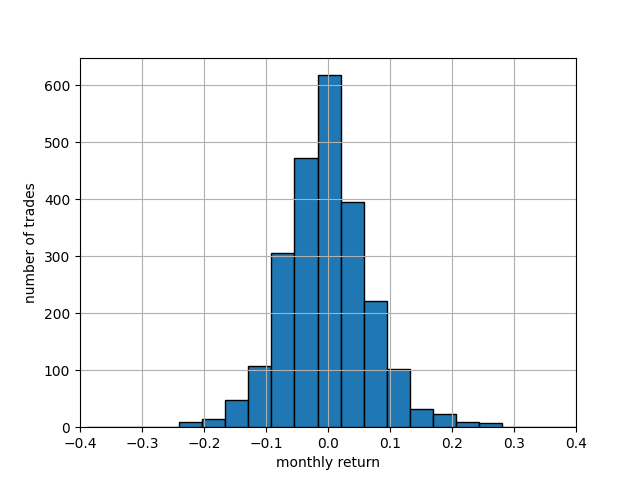
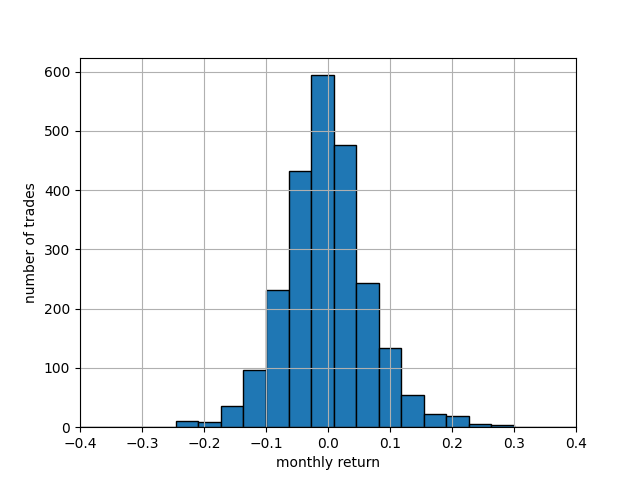
Rename and check.

diff --git a/main.py b/main.py
@@ -175,7 +175,7 @@ df[df.rt > 1.0] = np.nan
 value_df = df[(df.per < 10) & (df.roe > 0.1)]
 
 # ヒストグラムの描画
-plt.hist(value_df["rt"], bins = 22, ec = "black")
+plt.hist(value_df["rt"], bins = [-0.4272727, -0.390909, -0.3545454, -0.3181818, -0.2818181, -0.2454545, -0.2090909, -0.1727272, -0.1363636, -0.1, -0.0636363, -0.0272727, 0.0090909, 0.0454545, 0.0818181, 0.1181818, 0.1545454, 0.190909, 0.2272727, 0.2636363, 0.3, 0.3363636, 0.3727272, 0.4090909], ec = "black")
 plt.grid(True)
 plt.xlim(-0.4, 0.4)
 plt.xlabel("monthly return")

diff --git a/debug.py b/debug.py
@@ -45,4 +45,3 @@ topix500_codes = mylib.get_codelist_topix500()
 # for s in topix500_codes:
 #     mylib.sammary_to_csv(str(s) + ".T")
 
-mylib.stock_prices_to_csv(str(s) + ".T")

diff --git a/mylibrary/__init__.py b/mylibrary/__init__.py
@@ -1,2 +1,2 @@
 from mylibrary.date_to_csv import *
-from mylibrary.get_date import *
+from mylibrary.get_data import *

diff --git a/documentation.py b/documentation.py
@@ -1,0 +1,1 @@
+# 資料作成用のプログラム
